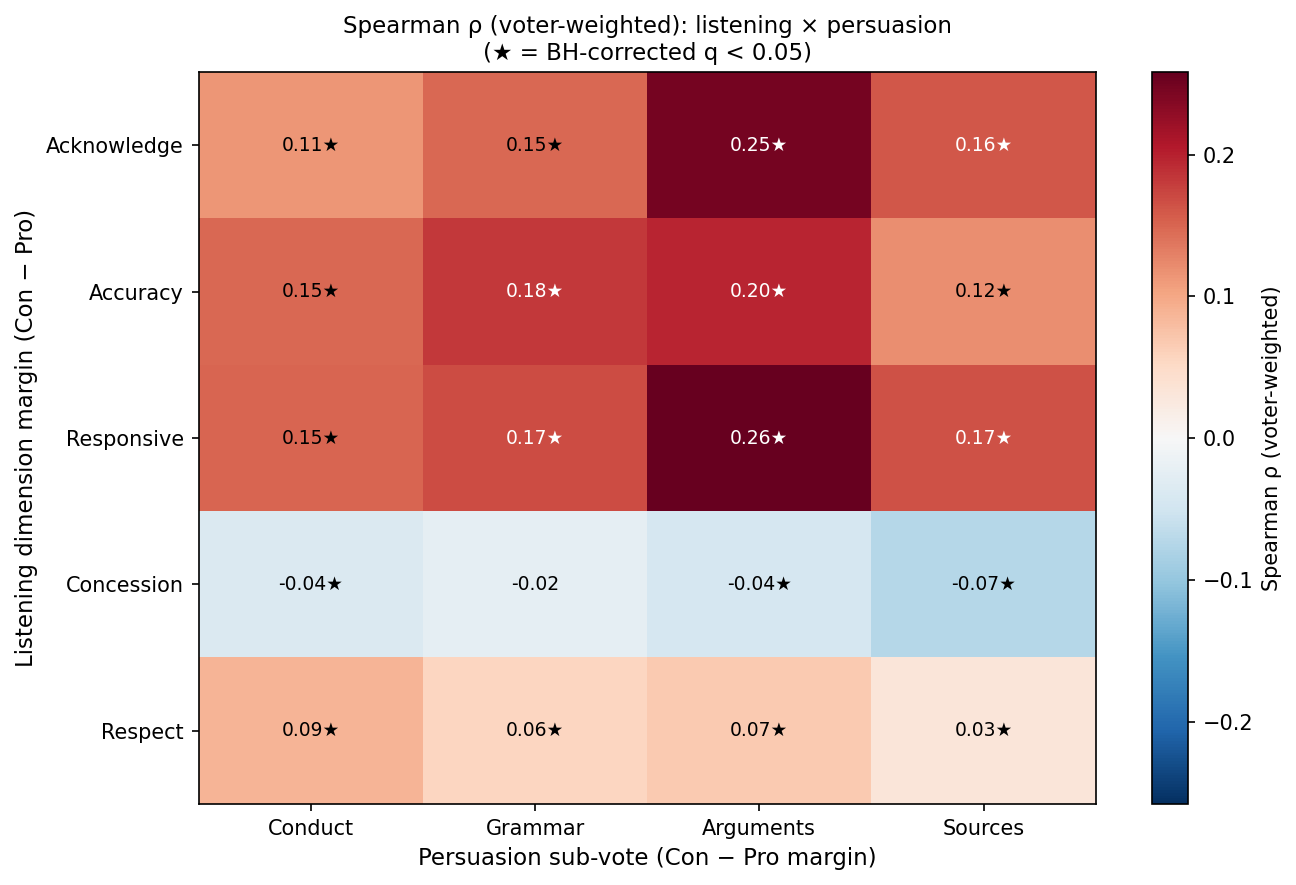
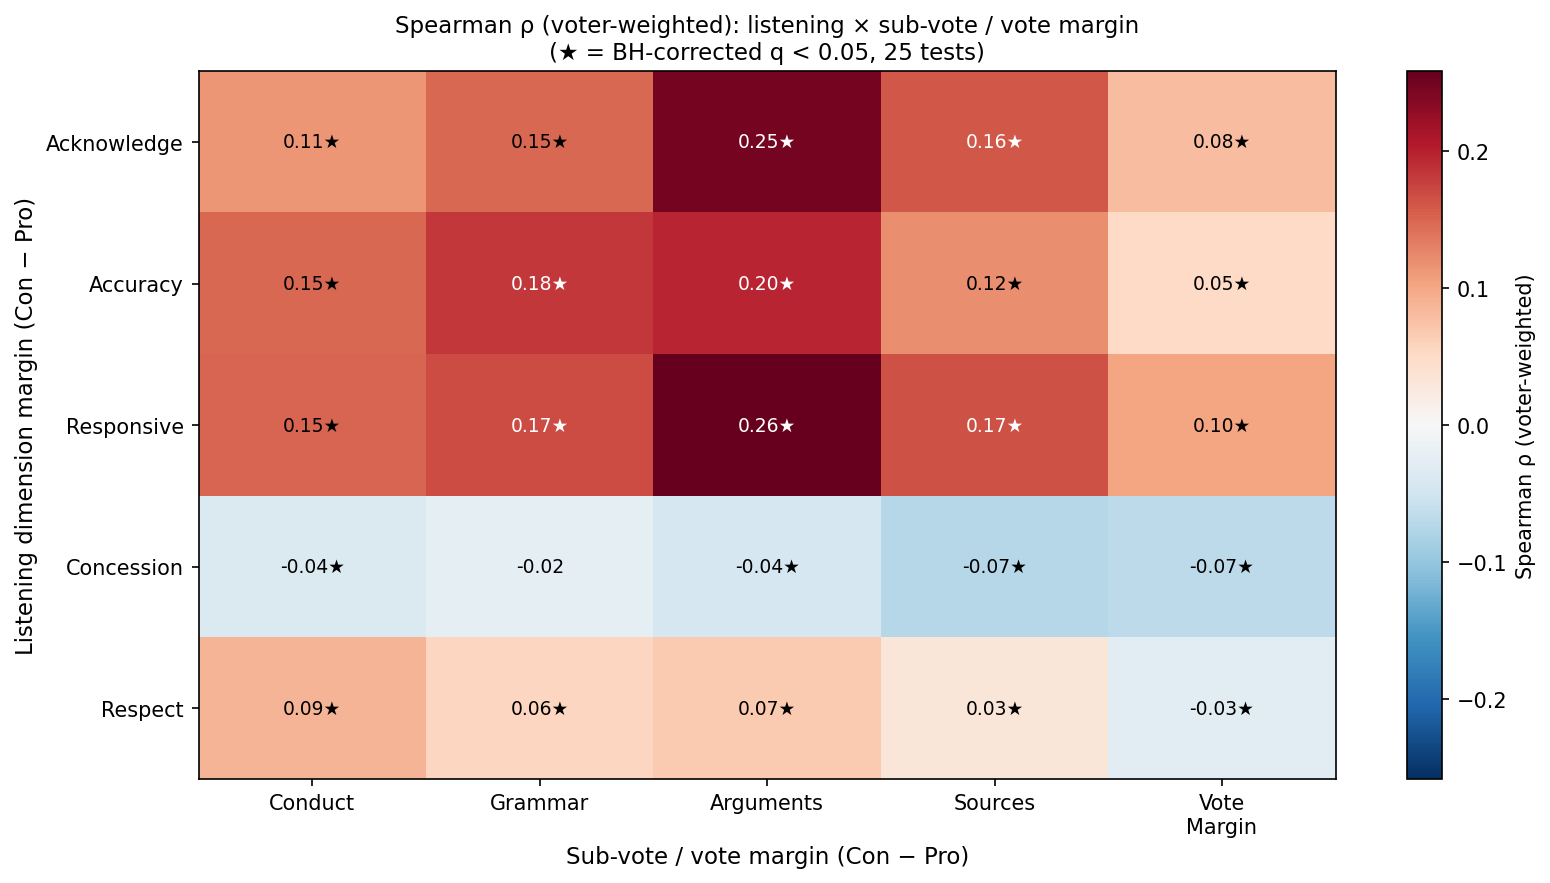
Expand RQ1 report with per-dimension correlations, updated 5×5 heatmap, and logistic classification.
- Add `rq1_dim_gt_correlations.csv` and `rq1_classifier.csv` for new analyses.
- Revise and extend report sections with methods, results, and plots (`rq1_dim_gt_barchart.png`, updated `rq1_heatmap.png`, and `rq1_heatmap_weighted.png`).
- Adjust methods to include vote margin as a 5th column in heatmap analyses.

diff --git a/reports/rq1/rq1_report.md b/reports/rq1/rq1_report.md
@@ -1,7 +1,7 @@
 
 ## Methods Note
 
-All margin values follow a Con-positive sign convention: `margin = con_score − pro_score` for listening dimensions and `(n_Con − n_Pro) / n_votes` for vote margins. A positive listening margin indicates Con listened better; a positive vote margin indicates more voters sided with Con after the debate. The unit of analysis is the debate (unweighted). Vote switching toward Con is defined as the transitions Pro→Con, Pro→Tie, and Tie→Con; the mirror set (Con→Pro, Con→Tie, Tie→Pro) counts as switching toward Pro. `net_switch_toward_con = (n_toward_con − n_toward_pro) / n_votes`. The headline classification analysis uses the 2-class condition (Tie debates excluded from both Claude's output and the ground truth) to match the Phase 1 IAA framing; 3-class results are reported as robustness checks. Bootstrap 95% CIs use 2000 debate-level resamples (percentile method). The 5×4 heatmap reports uncorrected Spearman ρ with p-values; a Benjamini–Hochberg q-value column is included in the CSV and significant cells (q < 0.05) are starred on the figure. The heatmap is explicitly exploratory. Two operationalizations of majority winner from post-debate votes are reported: `majority_winner` uses a three-way plurality (the side with the most votes among Pro, Con, and Tie wins; if no side leads strictly, the outcome is Tie); `majority_winner_procon` ignores Tie votes and awards the debate to whichever of Pro or Con received more post-debate votes (Tie only when Pro = Con). Rescala et al. (2024) benchmark numbers (33.33% random, 60.69% majority, 60.50% GPT-4) are cited from their Table 2 and not reproduced here.
+All margin values follow a Con-positive sign convention: `margin = con_score − pro_score` for listening dimensions and `(n_Con − n_Pro) / n_votes` for vote margins. A positive listening margin indicates Con listened better; a positive vote margin indicates more voters sided with Con after the debate. The unit of analysis is the debate (unweighted). Vote switching toward Con is defined as the transitions Pro→Con, Pro→Tie, and Tie→Con; the mirror set (Con→Pro, Con→Tie, Tie→Pro) counts as switching toward Pro. `net_switch_toward_con = (n_toward_con − n_toward_pro) / n_votes`. The headline classification analysis uses the 2-class condition (Tie debates excluded from both Claude's output and the ground truth) to match the Phase 1 IAA framing; 3-class results are reported as robustness checks. Bootstrap 95% CIs use 2000 debate-level resamples (percentile method). The 5×5 heatmap reports uncorrected Spearman ρ with p-values; a Benjamini–Hochberg q-value column is included in the CSV and significant cells (q < 0.05) are starred on the figure. The heatmap is explicitly exploratory. Two operationalizations of majority winner from post-debate votes are reported: `majority_winner` uses a three-way plurality (the side with the most votes among Pro, Con, and Tie wins; if no side leads strictly, the outcome is Tie); `majority_winner_procon` ignores Tie votes and awards the debate to whichever of Pro or Con received more post-debate votes (Tie only when Pro = Con). Rescala et al. (2024) benchmark numbers (33.33% random, 60.69% majority, 60.50% GPT-4) are cited from their Table 2 and not reproduced here.
 
 
 ## Headline: Overall Winner Agreement
@@ -27,6 +27,31 @@ For comparison, Rescala et al. (2024) report a random baseline of 33.33%, a majo
 | Majority winner (Pro/Con only) | 833 | 36.13 | [32.89, 39.38] | 0.0440 | [-0.0032, 0.0895] | 0.0487 | 0.3481 |
 
 ![Confusion matrices](rq1_winner_confusion.png)
+
+
+## Per-Dimension Correlations with Binarized Ground Truth
+
+To determine which listening dimensions individually predict who won, we compute Spearman ρ between each dimension margin (Con − Pro) and three binarized ground truths (Con = 1, Pro = 0; Tie debates excluded in all variants). This avoids the multicollinearity problem of the joint logistic regression. Bootstrap 95% CIs from 2000 debate-level resamples.
+
+| Dimension | Ground truth variant | n | ρ | p | 95% CI |
+|---|---|---|---|---|---|
+| acknowledgment | Q1 ground truth | 740 | 0.3204 | 0.00000 | [0.2557, 0.3862] |
+| acknowledgment | Majority winner (Pro/Con) | 532 | 0.1146 | 0.00815 | [0.0319, 0.1987] |
+| acknowledgment | Majority winner | 285 | 0.1689 | 0.00423 | [0.0586, 0.2789] |
+| accuracy_of_representation | Q1 ground truth | 740 | 0.2559 | 0.00000 | [0.1872, 0.3250] |
+| accuracy_of_representation | Majority winner (Pro/Con) | 532 | 0.0384 | 0.37634 | [-0.0446, 0.1233] |
+| accuracy_of_representation | Majority winner | 285 | 0.0410 | 0.49090 | [-0.0692, 0.1538] |
+| responsiveness | Q1 ground truth | 740 | 0.3304 | 0.00000 | [0.2640, 0.3937] |
+| responsiveness | Majority winner (Pro/Con) | 532 | 0.1293 | 0.00281 | [0.0473, 0.2167] |
+| responsiveness | Majority winner | 285 | 0.1826 | 0.00197 | [0.0694, 0.2913] |
+| concession_and_common_ground | Q1 ground truth | 740 | -0.0177 | 0.63022 | [-0.0901, 0.0570] |
+| concession_and_common_ground | Majority winner (Pro/Con) | 532 | -0.0452 | 0.29853 | [-0.1336, 0.0398] |
+| concession_and_common_ground | Majority winner | 285 | -0.0079 | 0.89395 | [-0.1172, 0.1120] |
+| respectful_engagement | Q1 ground truth | 740 | 0.0824 | 0.02503 | [0.0104, 0.1563] |
+| respectful_engagement | Majority winner (Pro/Con) | 532 | -0.0031 | 0.94230 | [-0.0850, 0.0813] |
+| respectful_engagement | Majority winner | 285 | 0.0253 | 0.67079 | [-0.0918, 0.1435] |
+
+![Per-dimension ρ bar chart](rq1_dim_gt_barchart.png)
 
 
 ## Vote Switching
@@ -77,15 +102,15 @@ Restricting to voters who switched cleanly between Pro and Con (excluding Pro↔
 ![Switch confusion matrix](rq1_switch_confusion.png)
 
 
-## Per-Dimension × Per-Sub-Vote Heatmap
+## Per-Dimension × Per-Sub-Vote Heatmap (5×5)
 
-The following heatmap shows Spearman ρ between each listening-dimension margin (Con − Pro mean score) and each persuasion sub-vote margin ((n_Con − n_Pro) / n_votes on that sub-vote). This is an exploratory 5×4 analysis (20 simultaneous tests); starred cells (★) survive Benjamini–Hochberg correction at q < 0.05.
+The following heatmap shows Spearman ρ between each listening-dimension margin (Con − Pro mean score) and each persuasion sub-vote margin ((n_Con − n_Pro) / n_votes on that sub-vote), plus the overall post-debate vote margin (the 5th column). This is an exploratory 5×5 analysis (25 simultaneous tests); starred cells (★) survive Benjamini–Hochberg correction at q < 0.05.
 
 ![Heatmap](rq1_heatmap.png)
 
 **BH-significant cells (q < 0.05):**
 
-| Listening dim | Sub-vote | n | ρ | p | q |
+| Listening dim | Sub-vote / vote margin | n | ρ | p | q |
 |---|---|---|---|---|---|
 | acknowledgment | more_convincing_arguments | 833 | 0.2908 | 0.00000 | 0.00000 |
 | responsiveness | more_convincing_arguments | 833 | 0.2799 | 0.00000 | 0.00000 |
@@ -98,33 +123,40 @@ The following heatmap shows Spearman ρ between each listening-dimension margin 
 | accuracy_of_representation | better_conduct | 833 | 0.1958 | 0.00000 | 0.00000 |
 | accuracy_of_representation | better_spelling_and_grammar | 833 | 0.1930 | 0.00000 | 0.00000 |
 | responsiveness | most_reliable_sources | 833 | 0.1818 | 0.00000 | 0.00000 |
-| accuracy_of_representation | most_reliable_sources | 833 | 0.1442 | 0.00003 | 0.00005 |
-| respectful_engagement | better_conduct | 833 | 0.1344 | 0.00010 | 0.00015 |
+| accuracy_of_representation | most_reliable_sources | 833 | 0.1442 | 0.00003 | 0.00006 |
+| respectful_engagement | better_conduct | 833 | 0.1344 | 0.00010 | 0.00019 |
+| acknowledgment | vote_margin | 833 | 0.1132 | 0.00107 | 0.00191 |
+| responsiveness | vote_margin | 833 | 0.1107 | 0.00137 | 0.00228 |
 
 **Full heatmap values:**
 
-| Listening dim | Sub-vote | n | ρ | p | q (BH) |
+| Listening dim | Sub-vote / vote margin | n | ρ | p | q (BH) |
 |---|---|---|---|---|---|
 | acknowledgment | better_conduct | 833 | 0.1993 | 0.00000 | 0.00000 ★ |
 | acknowledgment | better_spelling_and_grammar | 833 | 0.2045 | 0.00000 | 0.00000 ★ |
 | acknowledgment | more_convincing_arguments | 833 | 0.2908 | 0.00000 | 0.00000 ★ |
 | acknowledgment | most_reliable_sources | 833 | 0.1997 | 0.00000 | 0.00000 ★ |
+| acknowledgment | vote_margin | 833 | 0.1132 | 0.00107 | 0.00191 ★ |
 | accuracy_of_representation | better_conduct | 833 | 0.1958 | 0.00000 | 0.00000 ★ |
 | accuracy_of_representation | better_spelling_and_grammar | 833 | 0.1930 | 0.00000 | 0.00000 ★ |
 | accuracy_of_representation | more_convincing_arguments | 833 | 0.2142 | 0.00000 | 0.00000 ★ |
-| accuracy_of_representation | most_reliable_sources | 833 | 0.1442 | 0.00003 | 0.00005 ★ |
+| accuracy_of_representation | most_reliable_sources | 833 | 0.1442 | 0.00003 | 0.00006 ★ |
+| accuracy_of_representation | vote_margin | 833 | 0.0387 | 0.26466 | 0.34824 |
 | responsiveness | better_conduct | 833 | 0.2050 | 0.00000 | 0.00000 ★ |
 | responsiveness | better_spelling_and_grammar | 833 | 0.2016 | 0.00000 | 0.00000 ★ |
 | responsiveness | more_convincing_arguments | 833 | 0.2799 | 0.00000 | 0.00000 ★ |
 | responsiveness | most_reliable_sources | 833 | 0.1818 | 0.00000 | 0.00000 ★ |
+| responsiveness | vote_margin | 833 | 0.1107 | 0.00137 | 0.00228 ★ |
 | concession_and_common_ground | better_conduct | 833 | 0.0035 | 0.91872 | 0.91872 |
-| concession_and_common_ground | better_spelling_and_grammar | 833 | -0.0140 | 0.68558 | 0.72166 |
-| concession_and_common_ground | more_convincing_arguments | 833 | -0.0594 | 0.08683 | 0.12404 |
-| concession_and_common_ground | most_reliable_sources | 833 | -0.0211 | 0.54400 | 0.60444 |
-| respectful_engagement | better_conduct | 833 | 0.1344 | 0.00010 | 0.00015 ★ |
-| respectful_engagement | better_spelling_and_grammar | 833 | 0.0355 | 0.30548 | 0.35939 |
-| respectful_engagement | more_convincing_arguments | 833 | 0.0406 | 0.24125 | 0.30156 |
-| respectful_engagement | most_reliable_sources | 833 | 0.0413 | 0.23364 | 0.30156 |
+| concession_and_common_ground | better_spelling_and_grammar | 833 | -0.0140 | 0.68558 | 0.74520 |
+| concession_and_common_ground | more_convincing_arguments | 833 | -0.0594 | 0.08683 | 0.13567 |
+| concession_and_common_ground | most_reliable_sources | 833 | -0.0211 | 0.54400 | 0.61818 |
+| concession_and_common_ground | vote_margin | 833 | -0.0223 | 0.52131 | 0.61818 |
+| respectful_engagement | better_conduct | 833 | 0.1344 | 0.00010 | 0.00019 ★ |
+| respectful_engagement | better_spelling_and_grammar | 833 | 0.0355 | 0.30548 | 0.38185 |
+| respectful_engagement | more_convincing_arguments | 833 | 0.0406 | 0.24125 | 0.33507 |
+| respectful_engagement | most_reliable_sources | 833 | 0.0413 | 0.23364 | 0.33507 |
+| respectful_engagement | vote_margin | 833 | 0.0038 | 0.91280 | 0.91872 |
 
 
 ## Continuous: Listening Margin vs. Post-Debate Vote Margin
@@ -144,6 +176,24 @@ Logistic regression of majority winner (Con = 1, Pro = 0; Tie debates excluded) 
 | margin_responsiveness | 0.3832 | 0.1957 | 0.05015 | [-0.0002, 0.7667] |
 | margin_concession_and_common_ground | -0.0930 | 0.1874 | 0.61966 | [-0.4602, 0.2742] |
 | margin_respectful_engagement | 0.0710 | 0.1720 | 0.67972 | [-0.2661, 0.4081] |
+
+
+## Cross-Validated Logistic Classifier
+
+To assess whether listening features can predict the debate winner beyond Claude's own categorical judgment, we train a logistic regression classifier using eight features: the five listening-dimension margins plus three binary indicators for Claude's overall judgment (one each for Pro, Con, Tie — set to 1 if Claude's overall judgment matches that label, 0 otherwise). Model selection uses GridSearchCV over C ∈ {0.001, 0.01, 0.1, 1, 10, 100} and penalty ∈ {L1, L2} with solver='saga' and max_iter=5000. Cross-validation uses StratifiedKFold(n_splits=10, shuffle=True, random_state=42). Accuracy is the mean CV score at the best hyperparameter combination.
+
+**2-class condition:** Q1 ground truth (Con = 1, Pro = 0); Tie debates excluded from the ground truth label but Claude's Tie judgments are retained as features. **3-class condition:** Q1 ground truth with Tie included as a third class; all debates with a non-null Q1 label.
+
+Baselines: *heuristic* = Claude's single overall-judgment label used directly as a classifier (no learning); *always-majority* = accuracy of always predicting the most frequent class in the dataset; *random* = uniform random over classes. Rescala benchmarks apply to 3-class only and are on a related task (see Methods Note).
+
+| Condition | n | CV accuracy (%) | ±std | Best C | Best penalty | Heuristic (%) | Always-majority (%) | Random (%) | Rescala GPT-4 (%) | Rescala majority (%) |
+|---|---|---|---|---|---|---|---|---|---|---|
+| 2-class | 740 | 64.19 | 7.31 | 0.1 | l1 | 64.37 | 57.16 | 50.00 | — | — |
+| 3-class | 833 | 57.15 | 5.93 | 0.1 | l1 | 48.14 | 50.78 | 33.33 | 60.50 | 60.69 |
+
+The 2-class CV accuracy (64.19%) compares to the single-judgment heuristic (64.37%), the always-majority baseline (57.16% — always predict the more frequent class in the 2-class subset), and to the random baseline (50.00%), The 3-class CV accuracy (57.15%) compares to the single-judgment heuristic (48.14%), the always-majority baseline (50.78% — always predict the more frequent class in the 3-class subset), the random baseline (33.33%), Rescala et al.'s GPT-4 benchmark (60.50%), and their majority-vote baseline (60.69%). Note that the Rescala benchmarks are on a related but not identical task; comparisons are contextual.
+
+Full results saved to `rq1_classifier.csv`.
 
 
 ## Robustness Notes
@@ -187,4 +237,4 @@ Spearman ρ = 0.0688 (95% CI [-0.0312, 0.1660]), p = 0.00000. n = 833 debates / 
 #### Voter-weighted heatmap
 
 See `rq1_heatmap_weighted.png`. Weighted ρ and BH q values are in the `rho_wtd`, `p_wtd`, `q_bh_wtd` columns of `rq1_heatmap_cells.csv`.
-BH-significant cells in the weighted heatmap: 19/20.
+BH-significant cells in the weighted heatmap: 24/25.
